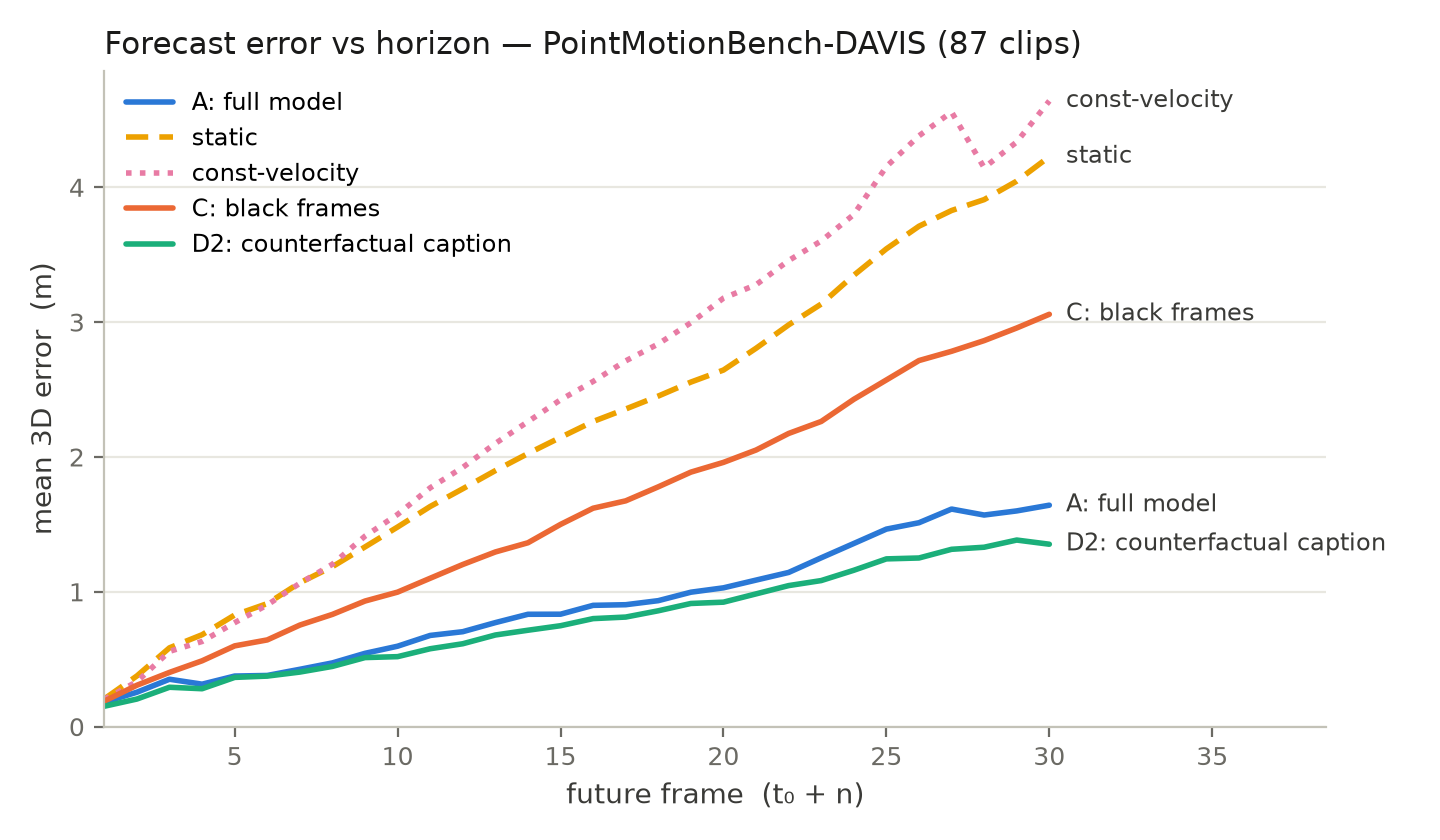
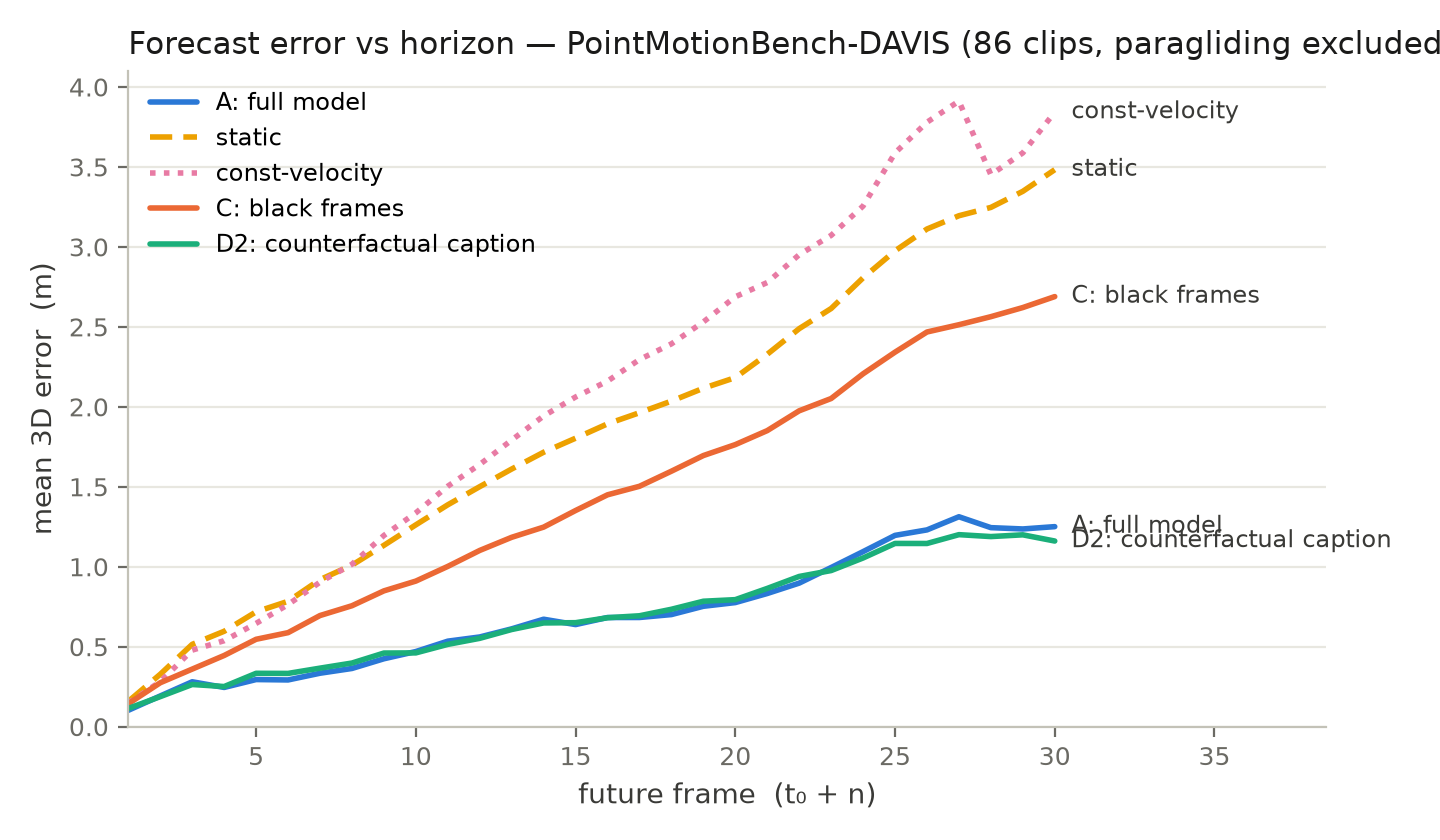
Tests 1+3: exclude paragliding outlier; add clip-mean/median columns

diff --git a/test3.html b/test3.html
@@ -1,6 +1,6 @@
 <!DOCTYPE html>
 <html lang="en"><head><meta charset="utf-8"><meta name="viewport" content="width=device-width, initial-scale=1">
-<title>Tests 1+3 — full-run results (DAVIS, 87 clips)</title>
+<title>Tests 1+3 — full-run results (DAVIS, 86 clips)</title>
 <style>
  body{font-family:-apple-system,BlinkMacSystemFont,"Segoe UI",Helvetica,Arial,sans-serif;background:#fafafa;color:#333;padding:18px 22px;max-width:900px}
  h1{font-size:17px;font-weight:600;margin-bottom:2px} #sub{font-size:13px;color:#888;margin-bottom:14px}
@@ -10,16 +10,19 @@
  p{font-size:13px;line-height:1.5;margin:10px 0}
 </style></head><body>
 <h1>Tests 1 + 3 — language ablations &amp; error-vs-horizon (full runs)</h1>
-<div id="sub">PointMotionBench-DAVIS &middot; 87 clips &middot; 24 points/clip &middot; fixed t&#8320; &middot; MolmoMotion-4B-H3-F30</div>
+<div id="sub">PointMotionBench-DAVIS &middot; 86 clips (paragliding excluded: degenerate-depth outlier, ADE 15.8 m) &middot; 24 points/clip &middot; fixed t&#8320; &middot; MolmoMotion-4B-H3-F30</div>
 <table>
-<tr><th>Condition</th><th>ADE &darr;</th><th>FDE &darr;</th><th>PWT &uarr;</th></tr>
-<tr><td>A — full model</td><td>0.877</td><td>1.733</td><td>0.174</td></tr>
-<tr><td>C — black history frames (language-only)</td><td>1.553</td><td>3.152</td><td>0.090</td></tr>
-<tr><td>D2 — direction-reversed captions</td><td>0.767</td><td>1.466</td><td>0.171</td></tr>
+<tr><th>Condition</th><th>ADE &darr;</th><th>FDE &darr;</th><th>PWT &uarr;</th><th>clip-mean ADE</th><th>clip-median ADE</th></tr>
+<tr><td>A — full model</td><td>0.686</td><td>1.404</td><td>0.177</td><td>0.707</td><td>0.431</td></tr>
+<tr><td>C — black history frames (language-only)</td><td>1.401</td><td>2.845</td><td>0.091</td><td>1.421</td><td>0.897</td></tr>
+<tr><td>D2 — direction-reversed captions</td><td>0.680</td><td>1.298</td><td>0.173</td><td>0.705</td><td>0.465</td></tr>
 </table>
 <img src="data/horizon_curve.png" alt="mean 3D error vs forecast horizon">
-<p><b>Reading:</b> removing vision (C) nearly doubles ADE and degrades toward the trivial baselines,
-while contradictory language (D2) leaves accuracy essentially unchanged — the model follows visual
-dynamics rather than caption templates. The model beats static and constant-velocity extrapolation
-by ~2.6&times; at the 30-frame horizon.</p>
+<p><b>Reading:</b> removing vision (C) doubles the error (clip-median 0.897 vs 0.431) and degrades
+toward the trivial baselines, while direction-reversed captions leave accuracy unchanged
+(clip-mean 0.705 vs 0.707; clip-median 0.465 vs 0.431 — D2 slightly worse, as expected for a
+counterfactual). Per-clip: unambiguous directional reversals hurt (bus +0.72, boat +0.41,
+hike +0.31 ADE), showing the language conditioning is real; visual dynamics dominate under
+conflict. The model beats static and constant-velocity extrapolation by ~2.8&times; at the
+30-frame horizon (1.25 m vs 3.48/3.84 m).</p>
 </body></html>
